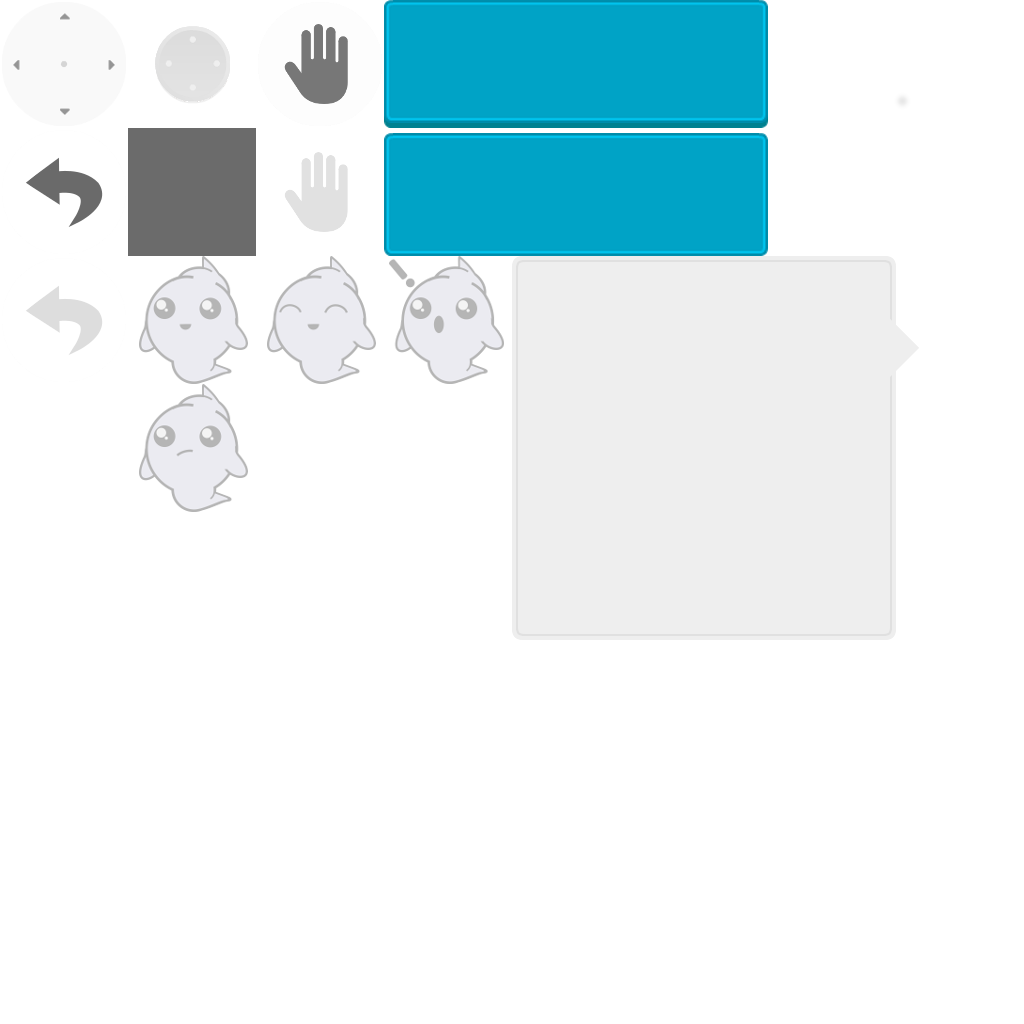
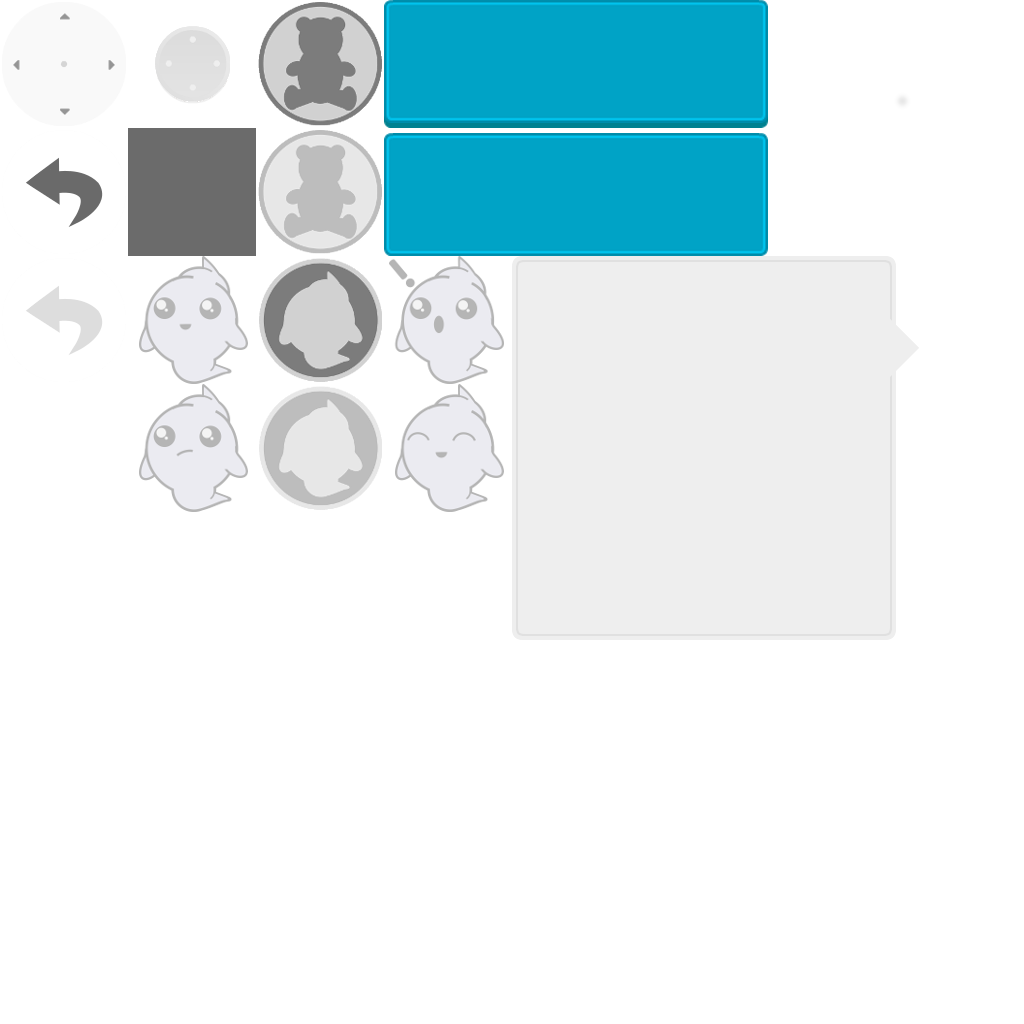
Added separate graphics to toy possess and eject buttons.

diff --git a/src/window/TouchGame.cpp b/src/window/TouchGame.cpp
@@ -47,14 +47,16 @@ Game::Game(ApplicationContext *applicationContext) : Window(applicationContext) 
     character->setVisible(false);
     this->guiElements.push_back(character);
     GuiTextBubble *window = new GuiTextBubble(GUI_TOP_LEFT, -500, 0, 150 * this->core->getBlockSize() / 64.0, 74 * this->core->getBlockSize() / 64.0);
-    window->setVisible(true);
+    this->toyController[1] = window;
+    window->setVisible(false);
     this->guiElements.push_back(window);
 
-    possessButton = new GuiButton(GUI_TOP_LEFT, 50, 50, 55 * this->core->getBlockSize() / 64.0, 55 * this->core->getBlockSize() / 64.0, new int[2]{2, 10}, 2);
+    GuiButton *possessButton = new GuiButton(GUI_TOP_LEFT, 50, 50, 55 * this->core->getBlockSize() / 64.0, 55 * this->core->getBlockSize() / 64.0, new int[2]{2, 10}, 2);
+    this->toyController[2] = possessButton;
     possessButton->setVisible(false);
     auto possessAction = [&](const TouchPoint *const p) {
         if (p->state == 1) {
-            if (possessButton->canBeClicked(p)) {
+            if (((GuiButton *) this->toyController[2])->canBeClicked(p)) {
                 if (this->core->getPlayer()->getToy() == nullptr) {
                     this->core->getPlayer()->setToy();
                 } else {
@@ -67,9 +69,6 @@ Game::Game(ApplicationContext *applicationContext) : Window(applicationContext) 
     };
     possessButton->setOnClickListener(possessAction);
     this->guiElements.push_back(possessButton);
-
-    this->toyController[1] = window;
-    this->toyController[2] = possessButton;
 
     GuiText *t = new GuiText(string("Dev Build: ") + __DATE__ + " " + __TIME__, 15, 15, GUI_BOTTOM_LEFT, 32, 0xFFFFFFFF, 0);
     this->guiElements.push_back(t);
@@ -102,7 +101,16 @@ void Game::tick(double deltaTime) {
     double player_x = this->windowWidth / 2.0 + (this->core->getPlayer()->getX() + this->core->getCamX() - 1 + this->core->getPlayer()->getWidth() / 2) * scale;
     double player_y = this->windowHeight / 2.0 + (this->core->getPlayer()->getY() + this->core->getCamY() - 1 + this->core->getPlayer()->getWidth() / 2) * scale;
 
-    possessButton->setVisible((this->core->getPlayer()->getToyToMerge() != nullptr || this->core->getPlayer()->getToy() != nullptr));
+    bool possessButtonEnabled = this->core->getPlayer()->getToy() != nullptr;
+    if (!possessButtonEnabled && this->markedToy != nullptr) {
+        for (b2ContactEdge *edge = this->core->getPlayer()->getBody()->GetContactList(); edge != nullptr; edge = edge->next) {
+            if (edge->other == this->markedToy->getBody() && edge->contact->IsTouching()) {
+                possessButtonEnabled = true;
+                break;
+            }
+        }
+    }
+    ((GuiButton *) this->toyController[2])->setEnabled(possessButtonEnabled);
 
     double px = this->core->getPlayer()->getX() + this->core->getPlayer()->getWidth() / 2;
     double py = this->core->getPlayer()->getY() + this->core->getPlayer()->getHeight() / 2;
@@ -154,7 +162,7 @@ void Game::tick(double deltaTime) {
         }
     }
 
-    if (toyPopupClickedBy >= 0) {
+    if (toyPopupClickedBy >= 0 && this->markedToy != nullptr) {
         toyPopupAlpha += 0.05 * deltaTime;
         if (toyPopupAlpha > 1.0) toyPopupAlpha = 1.0;
     } else if (toyPopupClickedBy < 0) {
@@ -162,6 +170,13 @@ void Game::tick(double deltaTime) {
         if (toyPopupAlpha < 0.0) {
             toyPopupAlpha = 0.0;
             this->markedToy = nullptr;
+            if (this->core->getPlayer()->getToy() == nullptr) {
+                this->toyController[2]->setTexPos(0, 2);
+                this->toyController[2]->setTexPos(1, 10);
+            } else {
+                this->toyController[2]->setTexPos(0, 18);
+                this->toyController[2]->setTexPos(1, 26);
+            }
         }
     }
 }
@@ -181,7 +196,8 @@ void Game::handleClick(const TouchPoint *const p) {
                 }
             }
         } else {
-            if (p->x > e->getX() && p->x < e->getX() + e->getWidth() &&
+            if (e->isVisible() &&
+                p->x > e->getX() && p->x < e->getX() + e->getWidth() &&
                 p->y > e->getY() && p->y < e->getY() + e->getHeight()) {
                 clicked = true;
             }
@@ -205,8 +221,6 @@ void Game::handleClick(const TouchPoint *const p) {
             this->markedToy = this->core->getMap()->getEntityAt<EntityToy>(sx, sy);
             if (this->markedToy != this->clickedToy) {
                 this->toyPopupClickedBy = -1;
-            } else {
-                this->toyPopupClickedBy = p->id;
             }
         } else {
             this->toyPopupClickedBy = -1;
